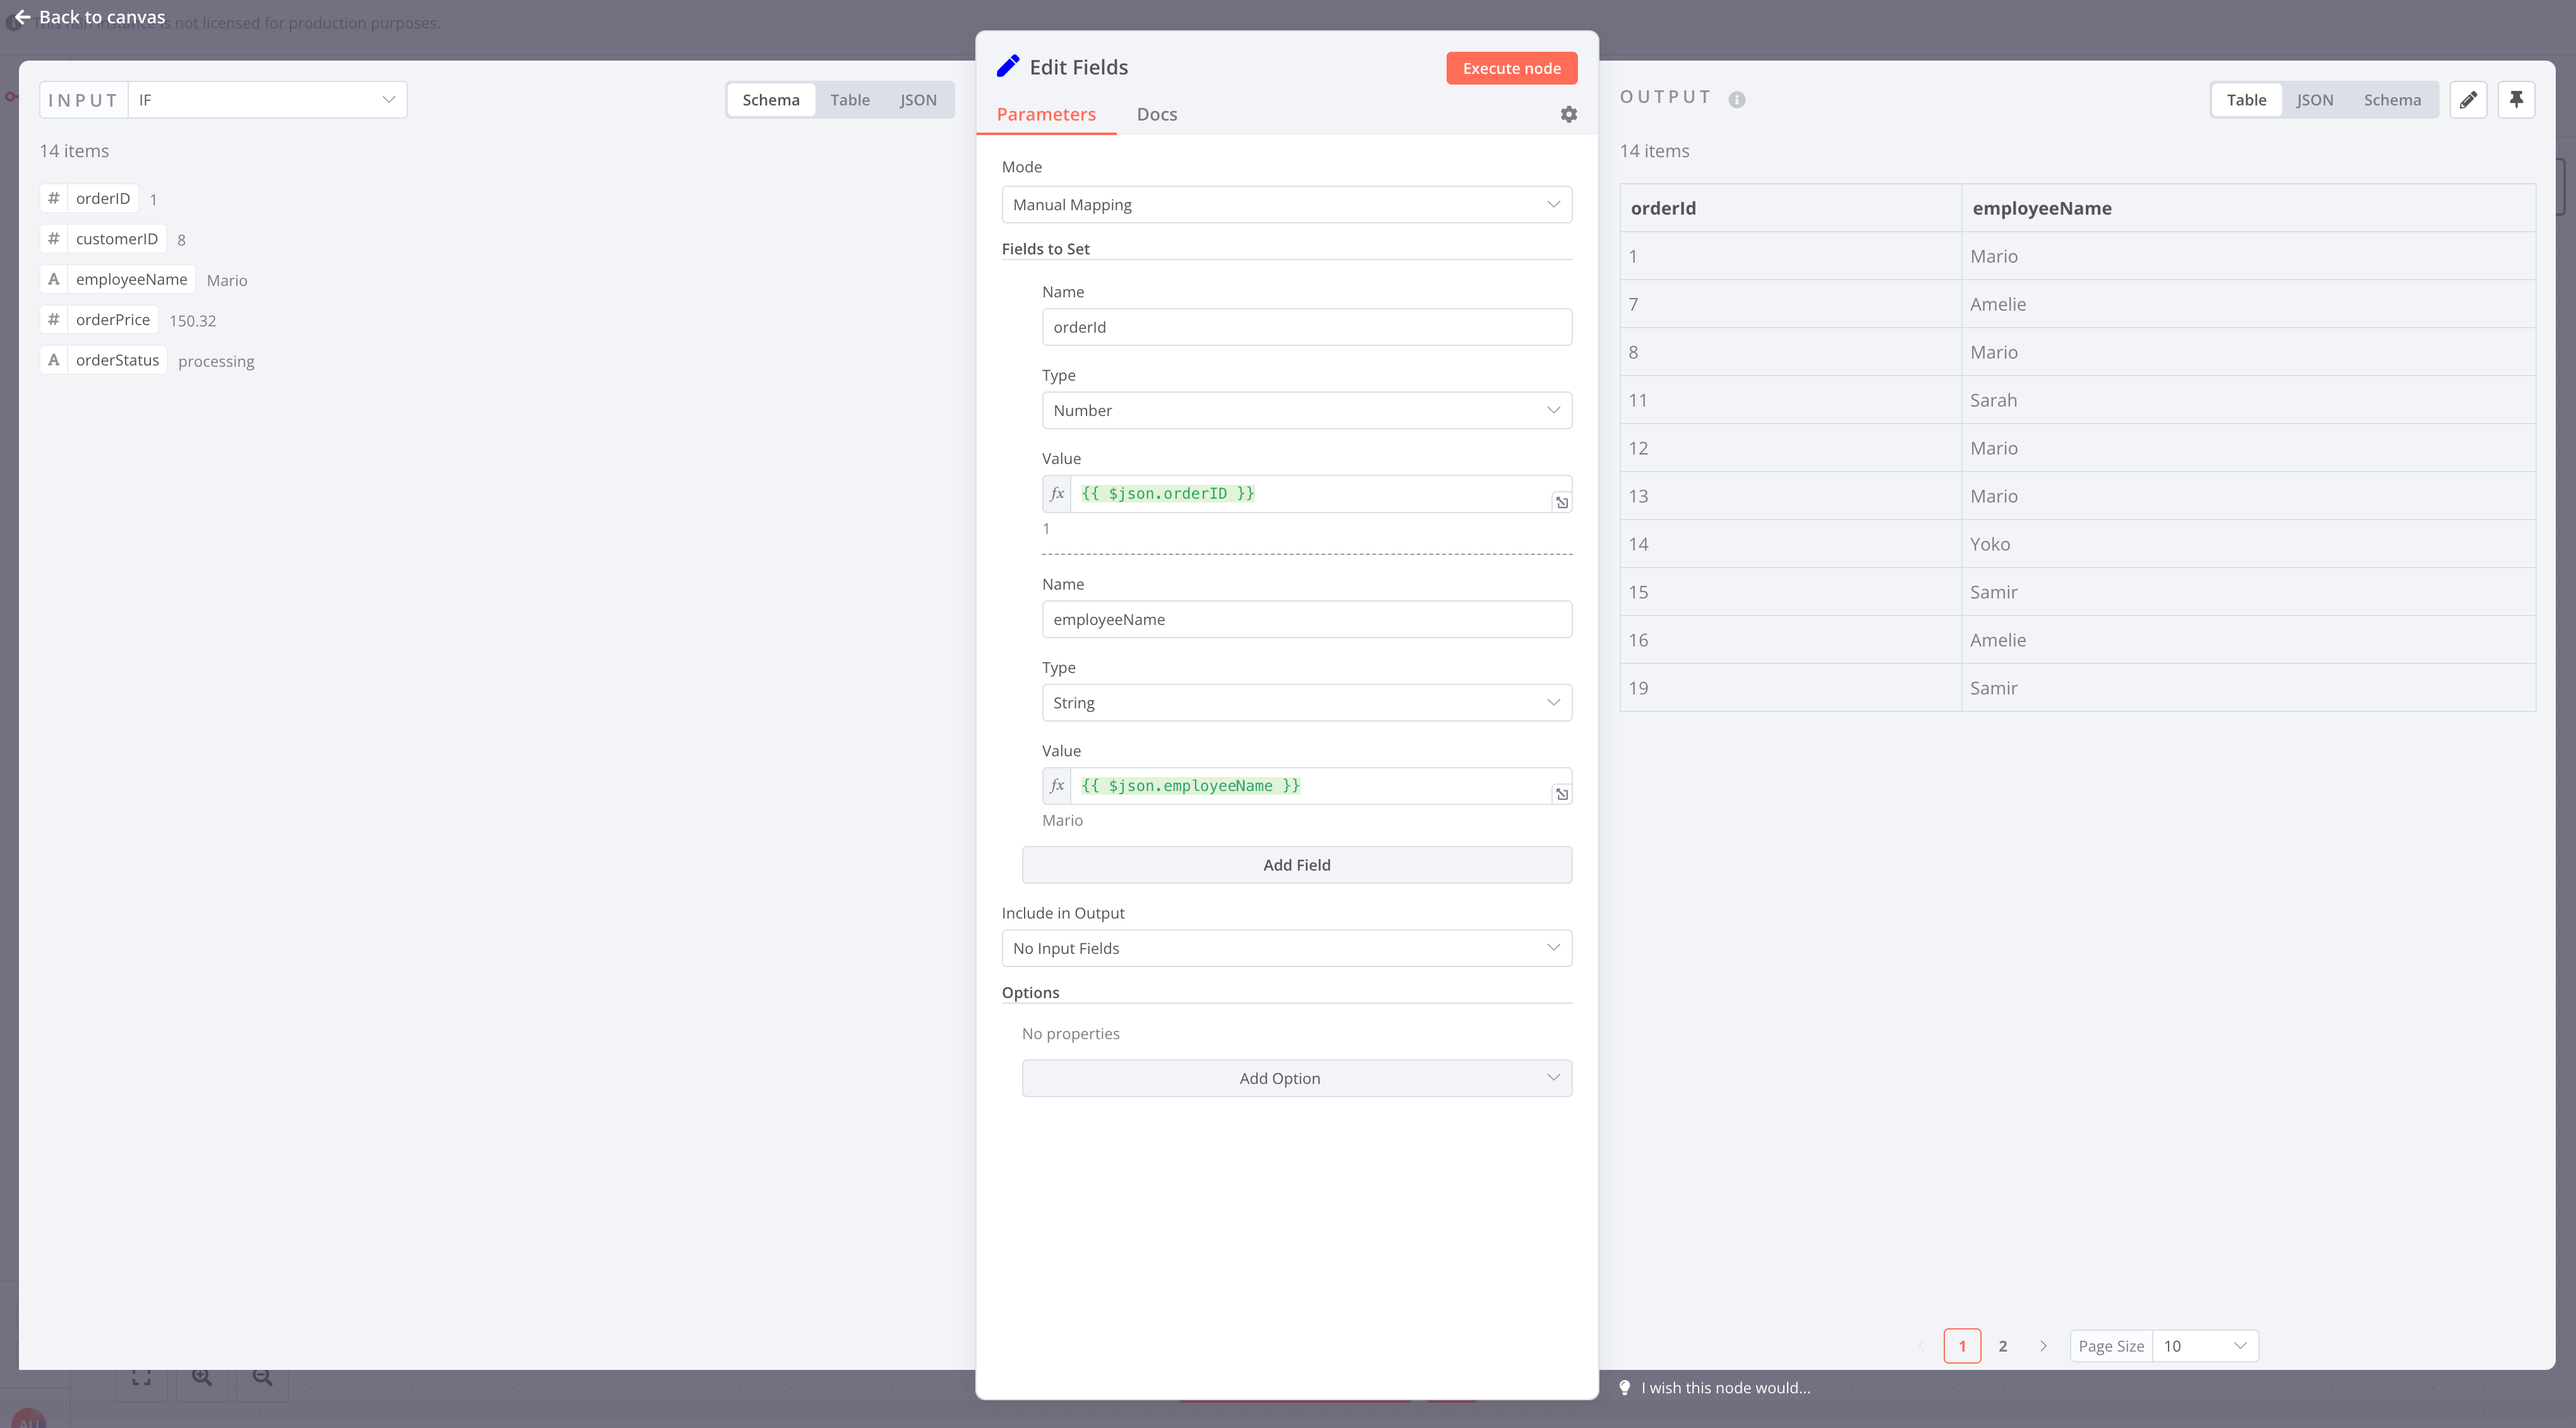
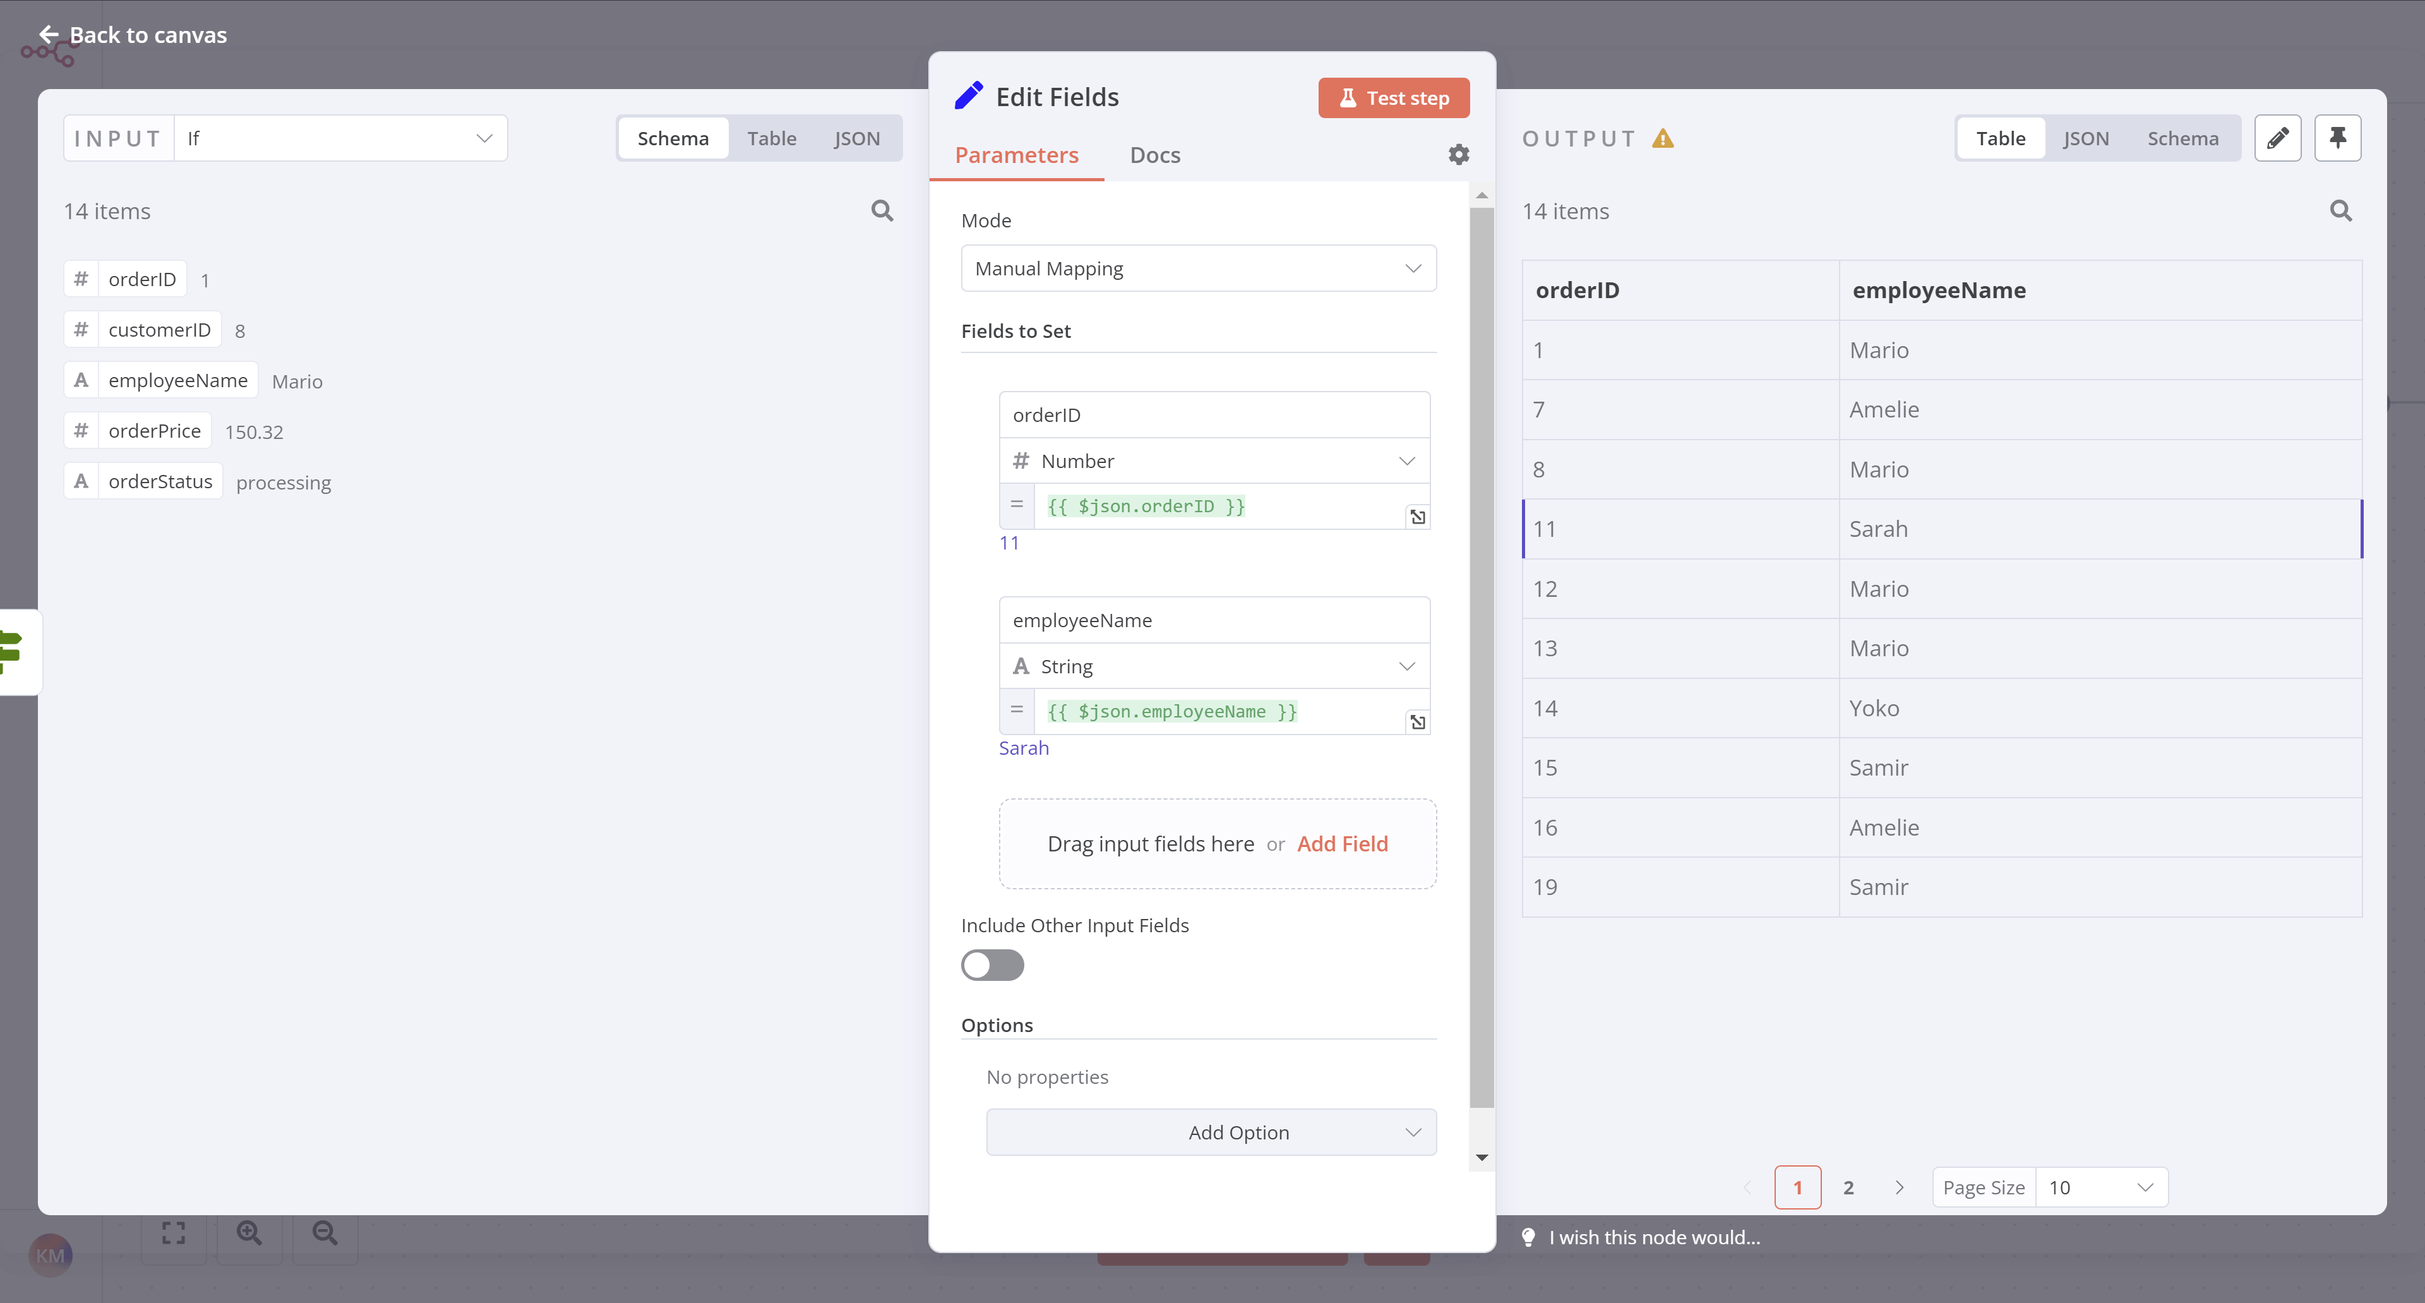
Update Ch 5.4 and one screenshot

diff --git a/docs/courses/level-one/chapter-5/chapter-5.4.md b/docs/courses/level-one/chapter-5/chapter-5.4.md
@@ -4,43 +4,58 @@ contentType: tutorial
 
 # 4. Setting Values for Processing Orders
 
-In this step of the workflow you will learn how to select and set data before transferring it to Airtable using the *Set* node.
+In this step of the workflow, you will learn how to select and set data before transferring it to Airtable using the **Edit Fields (Set) node**.
 
-The next step in Nathan's workflow is to insert the `employeeName` and `orderId` of all *processing* orders into Airtable.
+The next step in Nathan's workflow is to insert the `employeeName` and `orderId` of all `processing` orders into Airtable.
 
-For this, you need to use the [**Set node**](/integrations/builtin/core-nodes/n8n-nodes-base.set/){:target="_blank" .external}, which allows you to select and set the data you want to be transferred from one app/service to another.
+For this, you need to use the [**Edit Fields (Set) node**](/integrations/builtin/core-nodes/n8n-nodes-base.set/), which allows you to select and set the data you want to transfer from one app/service to another.
 
-/// note | Set node
-The *Set* node can set completely new data as well as overwrite data that already exists. This node is crucial in workflows which expect incoming data from previous nodes, such as when inserting values into spreadsheets or databases.
+/// note | Edit Fields node
+The **Edit Fields node** can set completely new data as well as overwrite data that already exists. This node is crucial in workflows which expect incoming data from previous nodes, such as when inserting values into spreadsheets or databases.
 ///
 
-In your workflow, add a new *Set* node between the *IF* node and the *Airtable* node. In the Set node window you need to toggle *Keep Only Set* to true and then add two values:
+## Disconnect the Airtable node
 
+In your workflow, disconnect the **Airtable node** from the **If node** in the same way we disconnected it in the [Filtering Orders](/courses/level-one/chapter-5/chapter-5.3/) lesson.
 
-- *Add Value > Number:*
-  - *Name:* `orderId`
-  - *Value:* `{{$json["orderID"]}}`
-    *Current Node > Input Data > JSON > orderID*
-- *Add Value > String:*
-  - *Name:* `employeeName`
-  - *Value:* `{{$json["employeeName"]}}`
-    *Current Node > Input Data > JSON > employeeName*
+## Configure the Edit Fields node
 
-After setting the two values, also make sure you set the option "Include in output" to "No input fields" to only include the fields specified above. 
+Now add a new **Edit Fields (Set) node** attached to the **If node**'s `true` connector by selecting the **+** icon with that connector and searching for **Edit Fields**.
 
-Then click on *Execute Node* and you should see the following results:
+With the **Edit Fields node** window open, configure these parameters:
 
-<figure><img src="/_images/courses/level-one/chapter-five/l1-c5-4-set-node.png" alt="Set node" style="width:100%"><figcaption align = "center"><i>Set node</i></figcaption></figure>
+- Ensure **Mode** is set to **Manual Mapping**.
+- While you can use the **Expression editor** we used in the [Filtering Orders](/courses/level-one/chapter-5/chapter-5.3/) lesson, this time, let's drag the fields from the **Input** into the **Fields to Set**:
+    - Drag **orderID** as the first field.
+    - Drag **employeeName** as the second field.
+- Ensure that **Include Other Input Fields** is set to false.
 
-Next, we need to insert these values into Airtable. Go to your Airtable account and add a new table called `processingOrders` with two columns, `orderId` and `employeeName`, just like you learned in the lesson [Inserting data into Airtable](/courses/level-one/chapter-5/chapter-5.2/).
+Select **Test step**. You should see the following results:
 
-Remember to update the Airtable node configuration to point to this new table.
+<figure><img src="/_images/courses/level-one/chapter-five/l1-c5-4-set-node.png" alt="Edit Fields (Set) node" style="width:100%"><figcaption align = "center"><i>Edit Fields (Set) node</i></figcaption></figure>
 
-Once that's done, execute the *Airtable* node in the workflow and you should see the records inserted in the table.
+## Add data to Airtable
 
-At this stage, it looks like this:
+Next, let's insert these values into Airtable:
 
-<figure><img src="/_images/courses/level-one/chapter-five/l1-c5-4-workflow-with-set-node.png" alt="Workflow with the Set node" style="width:100%"><figcaption align = "center"><i>Workflow with the Set node</i></figcaption></figure>
+1. Go to your Airtable account.
+2. Add a new table called `processingOrders`. You can add this table to your existing workspace/table if you choose.
+3. Add two columns to this table:
+    - `orderId`: Number
+    - `employeeName`: Single line text
+    
+    ///note | Reminder
+    If you get stuck, refer back to the [Inserting data into Airtable](/courses/level-one/chapter-5/chapter-5.2/) lesson.
+    ///
+  
+4. Be sure to delete the three empty rows in the new table!
+5. With the new table created, update the **Airtable node** configuration to point to this new `processingOrders` table instead of the `orders` table.
+6. Connect the **Edit Fields node** connector to the **Airtable node**.
+7. Test your **Airtable node** to be sure it inserts records into the new `processingOrders` table.
+
+At this stage, your workflow should now look like this:
+
+<figure><img src="/_images/courses/level-one/chapter-five/l1-c5-4-workflow-with-set-node.png" alt="Workflow with the Edit Fields node" style="width:100%"><figcaption align = "center"><i>Workflow with the Edit Fields node</i></figcaption></figure>
 
 ## What's next?
 
